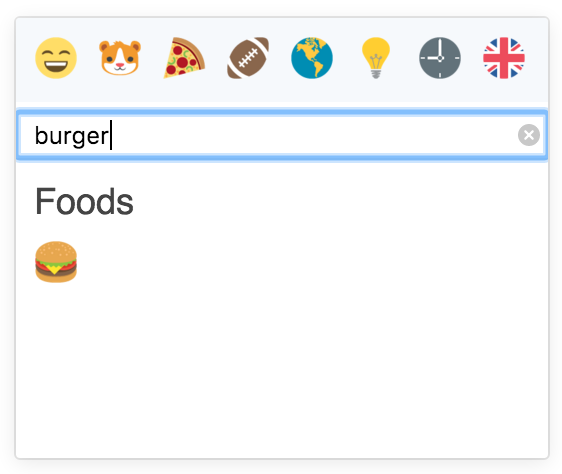
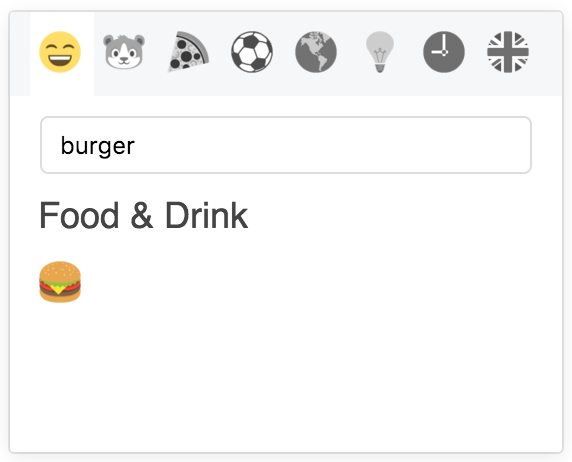
Improved examples Hide modifiers when searching Fixed styling of search with modifiers

diff --git a/src/picker.jsx b/src/picker.jsx
@@ -194,6 +194,13 @@ var Picker = React.createClass({
       return sections;
     },
     
+    getModifiers: function() {
+      // we hide the color tone modifiers when searching to reduce clutter
+      if (!this.state.term) {
+        return <Modifiers active={this.state.modifier} onChange={this.updateActiveModifier} />
+      }
+    },
+    
     getSearchInput: function() {
       if (this.props.search === true) {
         return <div className="emoji-search-wrapper">
@@ -203,12 +210,15 @@ var Picker = React.createClass({
     },
     
     render: function() {
-      return <div className="emoji-dialog" role="dialog">
+      var classes = 'emoji-dialog'
+      if (this.props.search === true) classes += ' with-search';
+      
+      return <div className={classes} role="dialog">
         <header className="emoji-dialog-header" role="menu">
           <ul>{this.getCategories()}</ul>
         </header>
         <div className="emoji-grandlist" ref="grandlist" role="listbox">
-          <Modifiers active={this.state.modifier} onChange={this.updateActiveModifier} />
+          {this.getModifiers()}
           {this.getSearchInput()}
           {this.getEmojis()}
         </div>

diff --git a/examples/index.html b/examples/index.html
@@ -2,20 +2,30 @@
   <head>
     <link rel="stylesheet" href="../css/picker.css" />
     <style>
+    body {
+      padding: 30px;
+    }
     h1,h2,h3 {
       font-family: sans-serif;
       font-weight: normal;
       margin-top: 50px;
       margin-bottom: 5px;
     }
+    .example {
+      width: 50%;
+      float: left;
+    }
     </style>
   </head>
   <body>
-    <h2>Standard Picker</h2>
-    <div id="example1"></div>
-
-    <h2>Search Enabled</h2>
-    <div id="example2"></div>
+    <div class="example">
+      <h2>Standard Picker</h2>
+      <div id="example1"></div>
+    </div>
+    <div class="example">
+      <h2>Search Enabled</h2>
+      <div id="example2"></div>
+    </div>
     
     <script src="../lib/preview.js"></script>
   </body>

diff --git a/css/picker.css b/css/picker.css
@@ -98,6 +98,10 @@
   right: 15px;
 }
 
+.emoji-dialog.with-search .modifiers {
+  top: 52px;
+}
+
 .emoji-dialog .modifiers li {
   display: inline-block;
   padding: 0 2px;
@@ -134,18 +138,15 @@
 }
 
 .emoji-dialog .emoji-search-wrapper {
-  border: 0;
-  border-bottom: 1px solid #efefef;
-  font-size: 12px;
-  width: 266px;
-  margin: -5px -5px 0 -5px;
+  padding: 0 5px;
 }
 
 .emoji-dialog .emoji-search {
   font-size: 12px;
   padding: 6px 4px;
   width: 100%;
-  border: 0;
+  border: 1px solid #ddd;
+  border-radius: 4px;
 }
 
 .emoji-dialog .emoji-category-list li:hover {

diff --git a/README.md b/README.md
@@ -21,7 +21,7 @@ var EmojiPicker = require('emojione-picker');
 }} />
 ```
 
-The module also includes CSS at `css/picker.css` which you can copy and edit or ideally reference directly from within the node_modules directory.
+The module also includes CSS at `css/picker.css` which you can copy and edit or ideally reference directly from within the node_modules directory. Let me know if you're using this in production - i'd love to see it in action!
 
 ### Filtering
 
